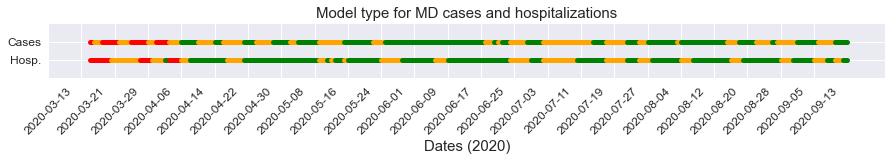
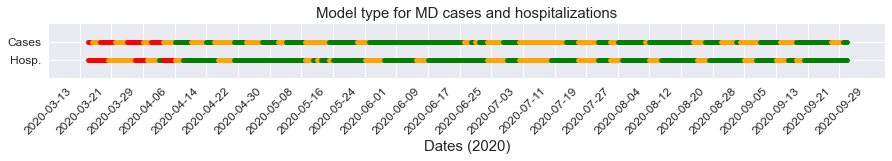
update

diff --git a/README.md b/README.md
@@ -15,7 +15,7 @@ The Jupyter notebook for all updated results is found here [[source_code]](https
 
 CURRENT RESULTS
 ------------
-Last update: 09/20/2020 
+Last update: 09/30/2020 
 
 MARYLAND COVID DYNAMICS OVERVIEW
 ------------
